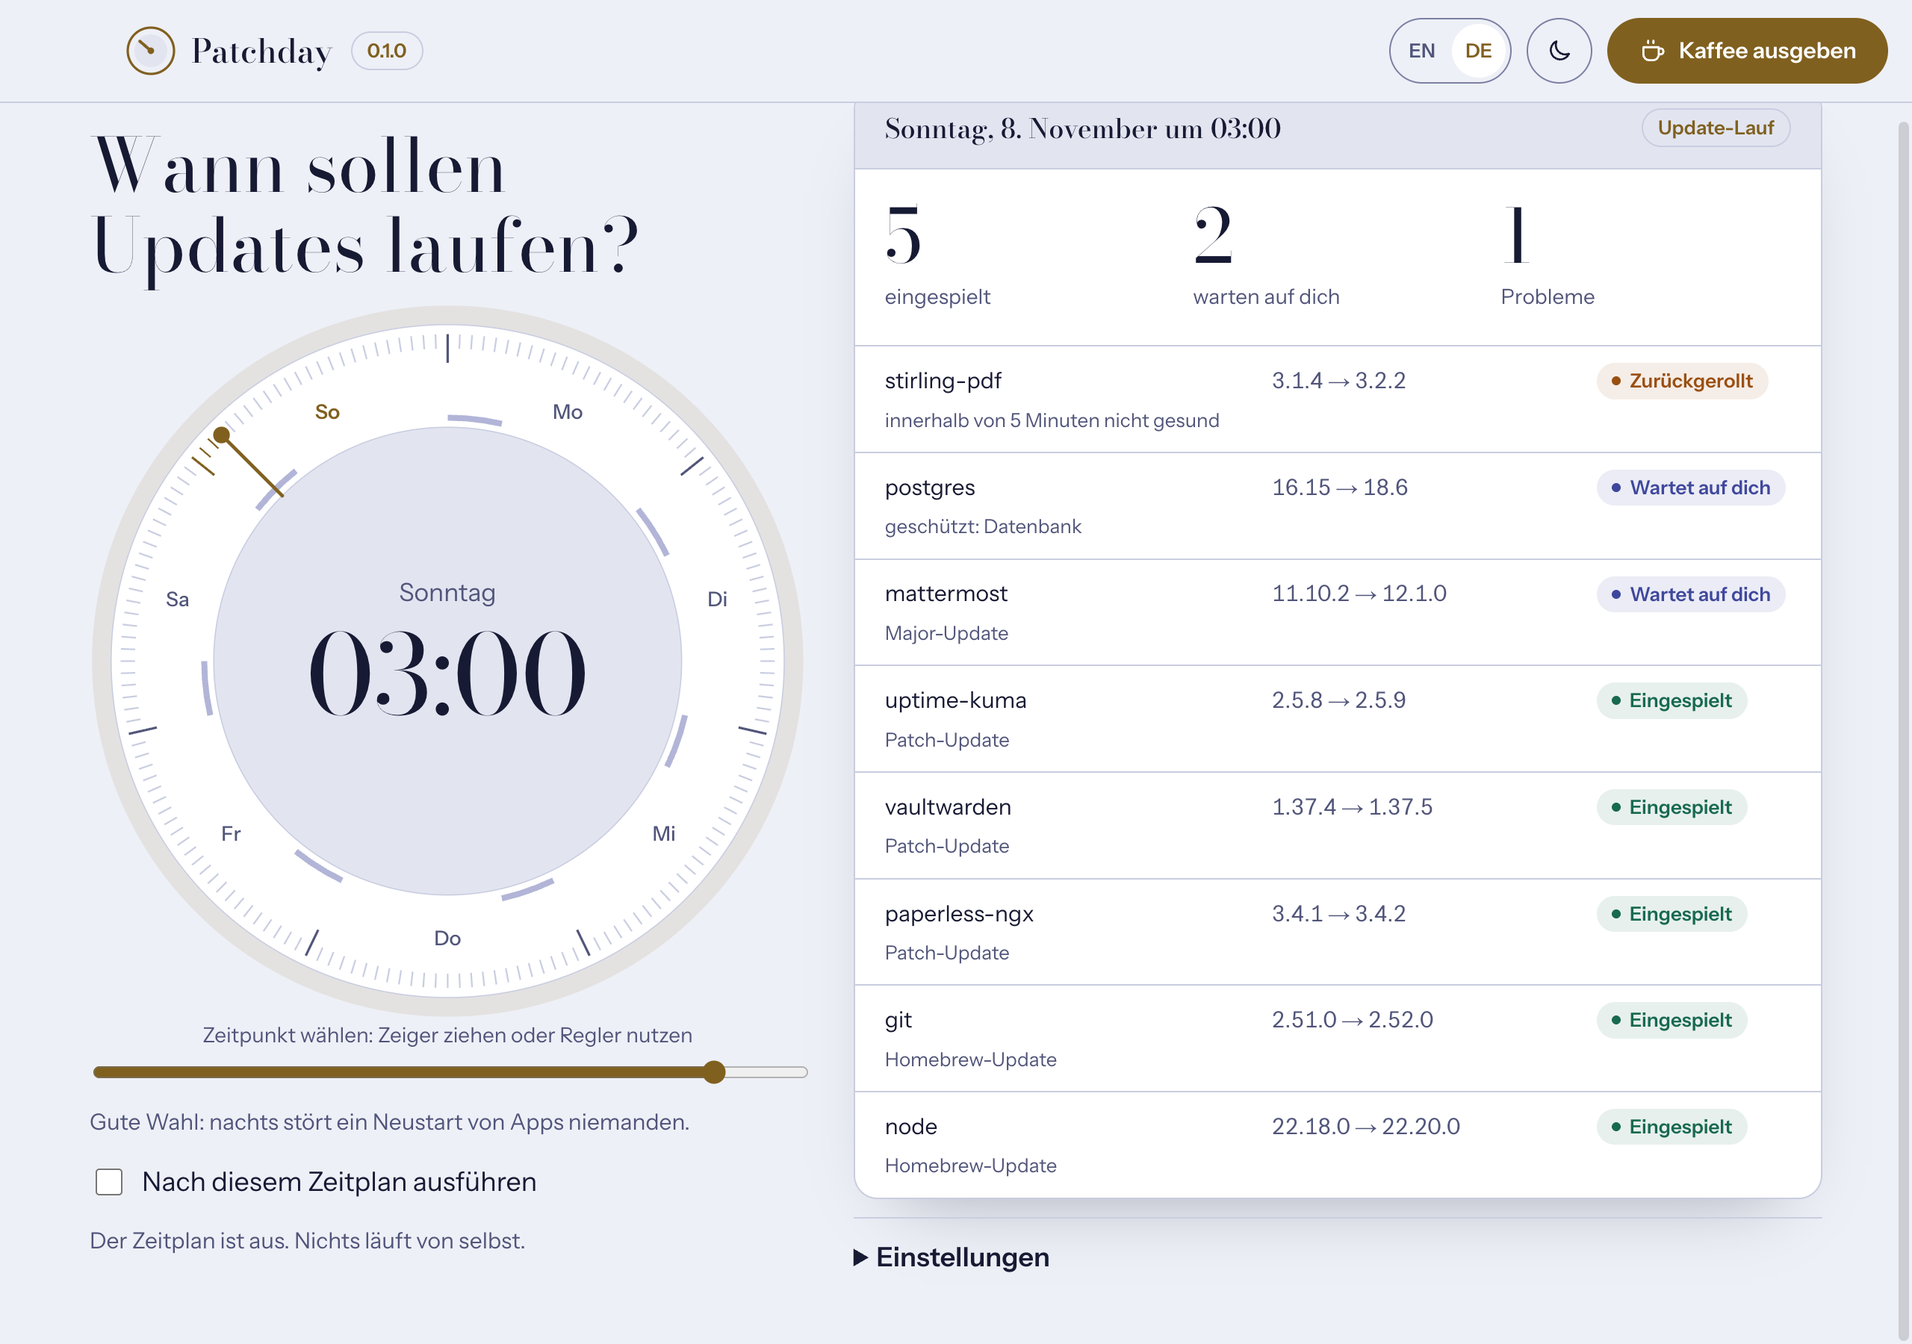
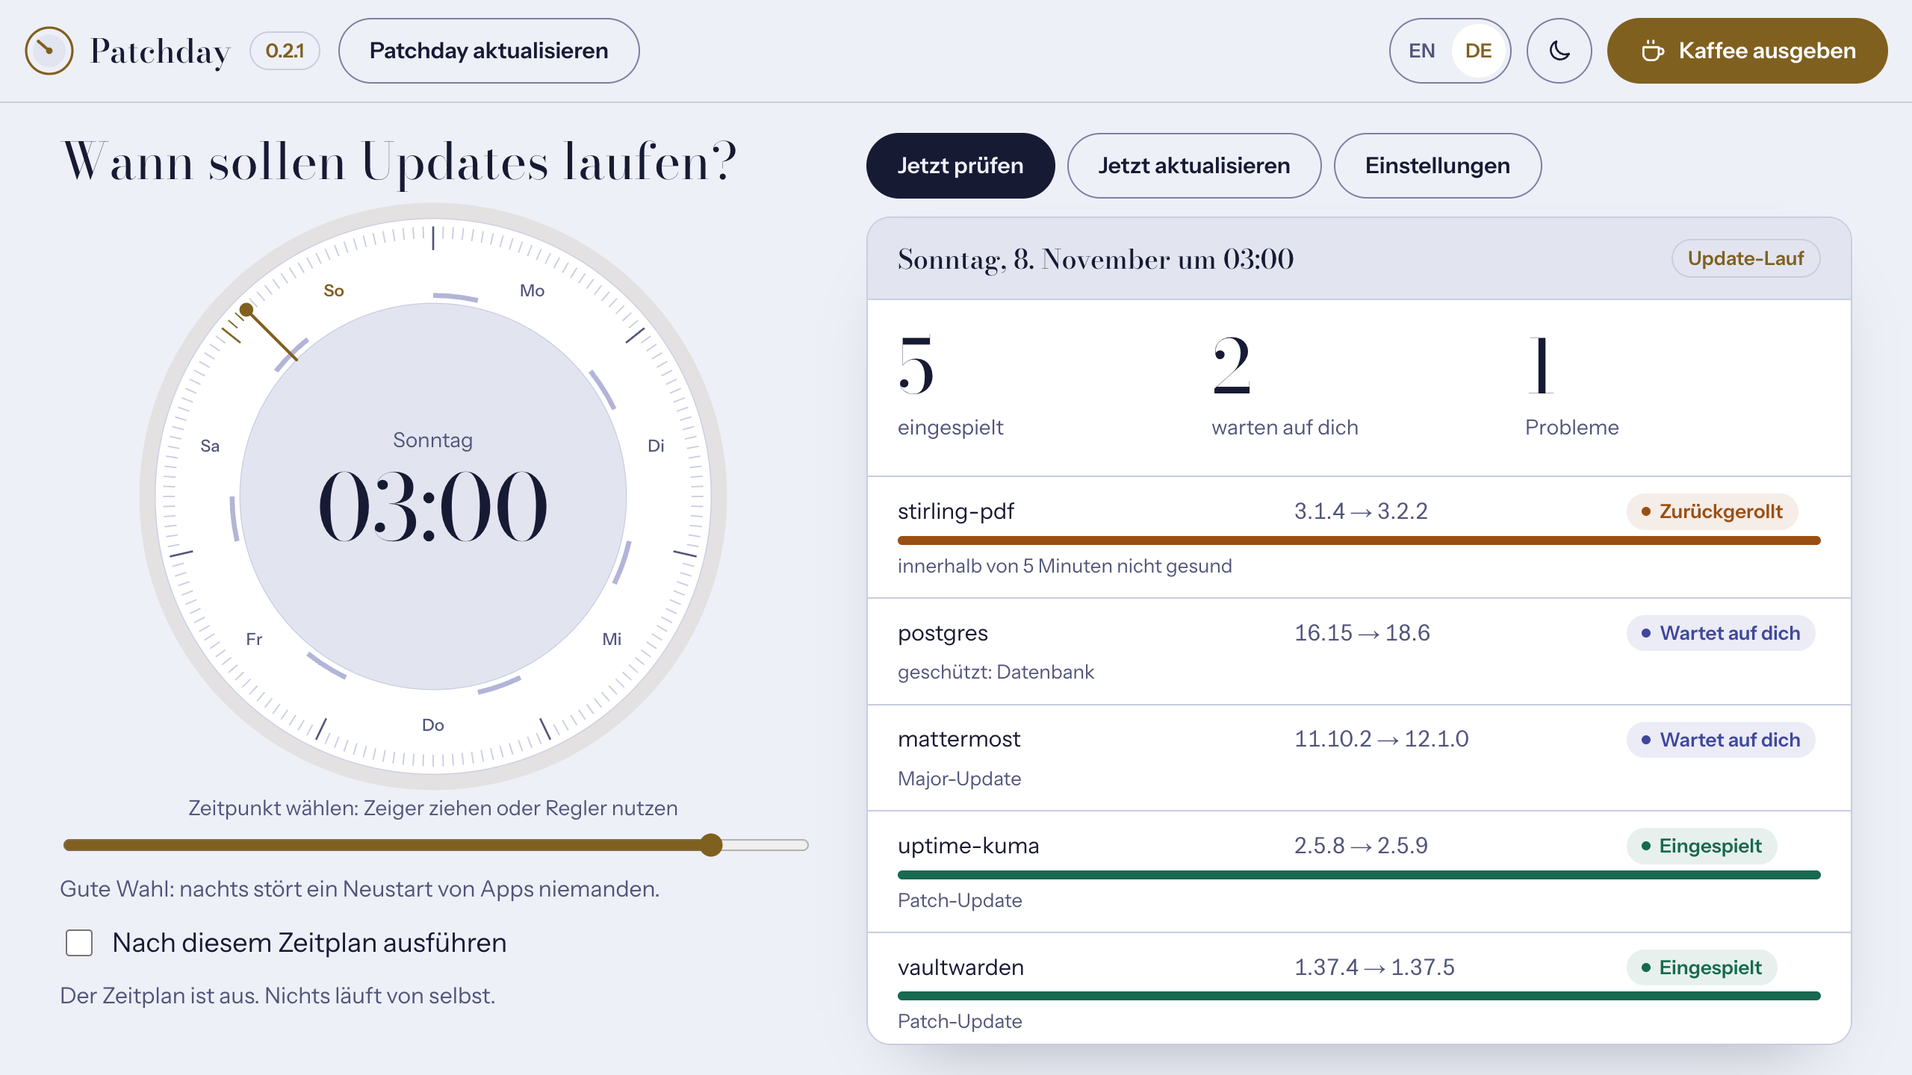
feat: add permanent update button and fixed 16:9 window scaling

diff --git a/src/renderer/app.css b/src/renderer/app.css
@@ -9,17 +9,20 @@
 body { font: 400 var(--step-0)/1.55 var(--font-text); }
 .pd-header { position: sticky; top: 0; z-index: 2; background: var(--night); -webkit-app-region: drag; }
 .pd-header button, .pd-header .pd-lang { -webkit-app-region: no-drag; }
-body.mac .pd-header { padding-left: 84px; }
 
-.app { display: grid; gap: var(--space-4); max-width: 1240px; margin-inline: auto; padding: var(--space-3) 16px var(--space-5); }
-.app > * { min-width: 0; }
-@media (min-width: 720px) { .app { padding-inline: var(--space-5); } }
-@media (min-width: 960px) { .app { grid-template-columns: minmax(0, .85fr) minmax(0, 1.15fr); align-items: start; } .schedule { position: sticky; top: 84px; } }
+/* The window keeps 16:9 and the whole page zooms with it, so this layout is always 1280 x 720. */
+html, body { height: 100%; overflow: hidden; }
+body { display: grid; grid-template-rows: auto minmax(0, 1fr); }
+.app { display: grid; grid-template-columns: 500px minmax(0, 1fr); gap: var(--space-5); min-height: 0; padding: var(--space-3) var(--space-5); }
+.app > * { min-width: 0; min-height: 0; }
 
-h1 { margin: 0; font: 400 var(--step-2)/1.08 var(--font-display); text-wrap: balance; }
+h1 { margin: 0; font: 400 34px/1.1 var(--font-display); white-space: nowrap; }
 h2 { margin: 0; font: 400 var(--step-1)/1.2 var(--font-display); }
 p { margin: 0; }
-.schedule, .work, .settings-body { display: grid; gap: var(--space-2); }
+.schedule, .settings-body { display: grid; gap: var(--space-1); align-content: start; }
+.work { display: flex; flex-direction: column; gap: var(--space-2); }
+.work .pd-window { flex: 1 1 auto; min-height: 0; overflow-y: auto; }
+.schedule .pd-dial { max-width: 396px; }
 .schedule input[type="range"] { width: 100%; accent-color: var(--brass); }
 .dial-label { display: grid; gap: 4px; color: var(--haze); font-size: 14px; text-align: center; }
 .hint { color: var(--haze); font-size: 15px; }
@@ -31,16 +34,11 @@ p { margin: 0; }
 .field { display: grid; gap: 4px; color: var(--haze); font-size: 14px; }
 .field input { min-height: 40px; padding: 0 12px; border: 1px solid var(--control-line); border-radius: var(--radius-field); background: var(--night-sunk); color: var(--moon); font: 15px var(--font-text); }
 
-.settings { border-top: 1px solid var(--line); padding-top: var(--space-2); }
-.settings summary { cursor: pointer; font-weight: 600; min-height: 32px; }
-.settings-body { padding-top: var(--space-2); }
 
 .pd-report-row > span:first-child { min-width: 0; overflow-wrap: anywhere; }
 .pd-reason { grid-column: 1 / -1; color: var(--haze); font-size: 13px; }
-.self-update { display: flex; flex-wrap: wrap; align-items: center; gap: var(--space-1) var(--space-2); padding: var(--space-2) 16px; background: var(--night-sunk); border-bottom: 1px solid var(--line); }
+.self-update { display: grid; gap: 6px; padding: var(--space-2) var(--space-3); border: 1px solid var(--line); border-radius: var(--radius-field); background: var(--night-sunk); }
 .self-update[hidden], .self-update .pd-progress[hidden] { display: none; }
-.self-update p { flex: 1 1 240px; min-width: 0; }
-.self-update .pd-progress { flex: 1 1 100%; }
 .overall { display: grid; gap: 6px; padding: var(--space-3); }
 .admin-row { display: flex; flex-wrap: wrap; align-items: center; gap: var(--space-1) var(--space-2); }
 .admin-row[hidden] { display: none; }
@@ -48,11 +46,7 @@ p { margin: 0; }
 .empty p { color: var(--haze); }
 .notes { padding: var(--space-2) var(--space-3); border-top: 1px solid var(--line); color: var(--haze); font-size: 14px; }
 
-dialog { max-width: 440px; padding: var(--space-3); border: 1px solid var(--line); border-radius: var(--radius-window); background: var(--night-raised); color: var(--moon); box-shadow: var(--shadow-window); }
+dialog { width: 560px; max-width: 560px; max-height: 660px; overflow-y: auto; padding: var(--space-3); border: 1px solid var(--line); border-radius: var(--radius-window); background: var(--night-raised); color: var(--moon); box-shadow: var(--shadow-window); }
 dialog > * + * { margin-top: var(--space-2); }
 dialog::backdrop { background: rgba(4, 5, 20, .6); }
 
-@media (max-width: 520px) {
-  .pd-header .coffee-text, .pd-header .pd-badge-plain { display: none; }
-  .pd-header .pd-btn-coffee { width: 44px; padding: 0; }
-}

diff --git a/src/renderer/i18n.ts b/src/renderer/i18n.ts
@@ -22,7 +22,7 @@ export const STRINGS = {
     adminTitle: 'Allow admin access once', adminText: 'Many Windows apps need admin rights to update. Allow it once now, and later updates run without a prompt for each app. Windows asks you to confirm.',
     adminAllow: 'Allow once', notNow: 'Not now', adminOn: 'Admin access is set up. Updates run without prompts.', adminOff: 'Without admin access, Windows may ask for every app.', adminDenied: 'Admin access was not granted.',
     overall: 'updates finished', queued: 'Waiting', phaseBackup: 'Backing up', phaseUpdate: 'Installing', phaseTest: 'Testing', phaseRollback: 'Rolling back', phaseRetry: 'Fixing and retrying',
-    selfAvailable: 'Patchday {version} is available.', selfInstall: 'Update Patchday', selfRunning: 'Updating Patchday. It restarts by itself.', selfFailed: 'Patchday could not update:',
+    selfAvailable: 'Patchday {version} is available.', selfInstall: 'Update Patchday', selfChecking: 'Looking for a new Patchday version…', selfCurrent: 'Patchday {version} is the latest version.', selfDev: 'Development builds do not update themselves.', done: 'Done', selfRunning: 'Updating Patchday. It restarts by itself.', selfFailed: 'Patchday could not update:',
     preview: 'Preview', run: 'Update run', failedRun: 'The run stopped:',
     days: ['Monday', 'Tuesday', 'Wednesday', 'Thursday', 'Friday', 'Saturday', 'Sunday'],
     short: ['Mon', 'Tue', 'Wed', 'Thu', 'Fri', 'Sat', 'Sun'], at: 'at', locale: 'en-US',
@@ -48,7 +48,7 @@ export const STRINGS = {
     adminTitle: 'Admin-Zugriff einmal erlauben', adminText: 'Viele Windows-Apps brauchen Admin-Rechte für Updates. Erlaube das jetzt einmal, dann laufen spätere Updates ohne Nachfrage pro App. Windows bittet dich um Bestätigung.',
     adminAllow: 'Einmal erlauben', notNow: 'Nicht jetzt', adminOn: 'Admin-Zugriff ist eingerichtet. Updates laufen ohne Nachfrage.', adminOff: 'Ohne Admin-Zugriff fragt Windows eventuell bei jeder App.', adminDenied: 'Admin-Zugriff wurde nicht erteilt.',
     overall: 'Updates fertig', queued: 'Wartet', phaseBackup: 'Sichert', phaseUpdate: 'Installiert', phaseTest: 'Testet', phaseRollback: 'Rollt zurück', phaseRetry: 'Behebt und versucht erneut',
-    selfAvailable: 'Patchday {version} ist verfügbar.', selfInstall: 'Patchday aktualisieren', selfRunning: 'Patchday wird aktualisiert und startet von selbst neu.', selfFailed: 'Patchday konnte nicht aktualisiert werden:',
+    selfAvailable: 'Patchday {version} ist verfügbar.', selfInstall: 'Patchday aktualisieren', selfChecking: 'Suche nach neuer Patchday-Version…', selfCurrent: 'Patchday {version} ist die neueste Version.', selfDev: 'Entwicklungsversionen aktualisieren sich nicht selbst.', done: 'Fertig', selfRunning: 'Patchday wird aktualisiert und startet von selbst neu.', selfFailed: 'Patchday konnte nicht aktualisiert werden:',
     preview: 'Vorschau', run: 'Update-Lauf', failedRun: 'Der Lauf wurde abgebrochen:',
     days: ['Montag', 'Dienstag', 'Mittwoch', 'Donnerstag', 'Freitag', 'Samstag', 'Sonntag'],
     short: ['Mo', 'Di', 'Mi', 'Do', 'Fr', 'Sa', 'So'], at: 'um', locale: 'de-DE',

diff --git a/src/renderer/app.ts b/src/renderer/app.ts
@@ -11,6 +11,7 @@ interface Api {
   coffee(): Promise<void>;
   setupAdmin(): Promise<boolean>;
   checkSelf(): Promise<string | null>;
+  manualCheckSelf(): Promise<string | null>;
   installSelf(): Promise<void>;
   onSelfProgress(listener: (percent: number) => void): void;
   onSelfAvailable(listener: (version: string) => void): void;
@@ -187,8 +188,9 @@ function renderText(): void {
   $('token-state').textContent = hasToken ? t().tokenSaved : t().tokenNone;
   $('admin-state').textContent = adminMessage || (adminReady ? t().adminOn : t().adminOff);
   $('admin-setup').hidden = adminReady;
-  $('self-update').hidden = !selfVersion;
+  $('self-update').hidden = !selfVersion && !selfMessage;
   $('self-text').textContent = selfMessage || (t().selfAvailable as string).replace('{version}', selfVersion ?? '');
+  $('self-update-button').className = `pd-btn ${selfVersion ? 'pd-btn-main' : 'pd-btn-line'}`;
 }
 
 function renderAll(): void {
@@ -231,7 +233,6 @@ async function start(): Promise<void> {
   hasToken = state.hasToken;
   adminReady = state.adminReady;
   report = state.reports[0] ?? null;
-  if (state.platform === 'darwin') document.body.classList.add('mac');
   $('version').textContent = state.version;
   $<HTMLInputElement>('enabled').checked = settings.scheduleEnabled;
   $<HTMLInputElement>('apply').checked = settings.applyUpdates;
@@ -263,6 +264,9 @@ async function start(): Promise<void> {
     hasToken = true;
     renderText();
   });
+  const settingsDialog = $<HTMLDialogElement>('settings');
+  $('settings-open').addEventListener('click', () => settingsDialog.showModal());
+  $('settings-close').addEventListener('click', () => settingsDialog.close());
   $('check').addEventListener('click', () => void perform(api.check, t().checking));
   const dialog = $<HTMLDialogElement>('confirm');
   $('update').addEventListener('click', () => dialog.showModal());
@@ -288,12 +292,23 @@ async function start(): Promise<void> {
     track.setAttribute('aria-valuenow', String(percent));
     (track.firstElementChild as HTMLElement).style.width = `${percent}%`;
   });
-  $('self-install').addEventListener('click', async () => {
-    const button = $<HTMLButtonElement>('self-install');
+  $('self-update-button').addEventListener('click', async () => {
+    const button = $<HTMLButtonElement>('self-update-button');
     button.disabled = true;
-    selfMessage = t().selfRunning;
+    selfMessage = t().selfChecking;
     renderText();
     try {
+      const version = await api.manualCheckSelf();
+      if (!version) {
+        selfVersion = null;
+        selfMessage = state.packaged ? (t().selfCurrent as string).replace('{version}', state.version) : t().selfDev;
+        button.disabled = false;
+        renderText();
+        return;
+      }
+      selfVersion = version;
+      selfMessage = t().selfRunning;
+      renderText();
       await api.installSelf();
     } catch (error) {
       button.disabled = false;

diff --git a/src/main/main.ts b/src/main/main.ts
@@ -1,4 +1,4 @@
-import { app, BrowserWindow, ipcMain, Notification, safeStorage, shell } from 'electron';
+import { app, BrowserWindow, ipcMain, Notification, safeStorage, screen, shell } from 'electron';
 import { mkdir, readdir, readFile, rm, writeFile } from 'node:fs/promises';
 import { dirname, join } from 'node:path';
 import { createPortainerClient } from '../engine/portainer.ts';
@@ -76,16 +76,36 @@ function program(): string[] {
   return app.isPackaged ? [process.execPath, SCHEDULED_FLAG] : [process.execPath, app.getAppPath(), SCHEDULED_FLAG];
 }
 
+// The page is laid out once for this size. The window keeps its shape and the page zooms with it.
+const DESIGN_WIDTH = 1280;
+const DESIGN_HEIGHT = 720;
+const MIN_WIDTH = 960;
+const MAX_WIDTH = 1920;
+
 function createWindow(): void {
+  const area = screen.getPrimaryDisplay().workAreaSize;
+  const room = Math.floor(Math.min(area.width, ((area.height - 40) * DESIGN_WIDTH) / DESIGN_HEIGHT));
+  const width = Math.max(MIN_WIDTH, Math.min(DESIGN_WIDTH, room));
   const window = new BrowserWindow({
-    width: 1180,
-    height: 820,
-    minWidth: 420,
-    minHeight: 560,
+    width,
+    height: Math.round((width * DESIGN_HEIGHT) / DESIGN_WIDTH),
+    useContentSize: true,
+    maximizable: false,
+    fullscreenable: false,
     backgroundColor: '#12142b',
     title: 'Patchday',
     webPreferences: { preload: join(__dirname, 'preload.cjs'), contextIsolation: true, sandbox: true, nodeIntegration: false },
   });
+  window.setAspectRatio(DESIGN_WIDTH / DESIGN_HEIGHT);
+  window.setContentSize(width, Math.round((width * DESIGN_HEIGHT) / DESIGN_WIDTH));
+  const frameWidth = window.getSize()[0] - window.getContentSize()[0];
+  const frameHeight = window.getSize()[1] - window.getContentSize()[1];
+  const heightFor = (contentWidth: number) => Math.round((contentWidth * DESIGN_HEIGHT) / DESIGN_WIDTH) + frameHeight;
+  window.setMinimumSize(MIN_WIDTH + frameWidth, heightFor(MIN_WIDTH));
+  window.setMaximumSize(MAX_WIDTH + frameWidth, heightFor(MAX_WIDTH));
+  const fit = () => window.webContents.setZoomFactor(window.getContentSize()[0] / DESIGN_WIDTH);
+  window.on('resize', fit);
+  window.webContents.on('did-finish-load', fit);
   window.loadFile(join(__dirname, 'renderer', 'index.html'));
   // Nothing inside the app may open other pages.
   window.webContents.setWindowOpenHandler(() => ({ action: 'deny' }));
@@ -140,6 +160,10 @@ function registerIpc(): void {
   ipcMain.handle('self-check', async () => {
     if (!app.isPackaged) return null;
     return (await findUpdate().catch(() => null))?.version ?? null;
+  });
+  ipcMain.handle('self-check-manual', async () => {
+    if (!app.isPackaged) return null;
+    return (await findUpdate())?.version ?? null;
   });
   ipcMain.handle('self-install', async (event) => {
     const onPercent = (percent: number) => event.sender.send('self-progress', percent);

diff --git a/src/renderer/index.html b/src/renderer/index.html
@@ -14,6 +14,7 @@
     <b>Patchday</b>
   </div>
   <span class="pd-badge pd-badge-plain" id="version"></span>
+  <button class="pd-btn pd-btn-line" id="self-update-button" type="button" data-i18n="selfInstall"></button>
   <div class="pd-header-tools">
     <div class="pd-lang" role="group" aria-label="Language / Sprache">
       <button type="button" data-lang="en" aria-pressed="true">EN</button>
@@ -29,12 +30,6 @@
   </div>
 </header>
 
-<div class="self-update" id="self-update" hidden>
-  <p id="self-text"></p>
-  <button class="pd-btn pd-btn-main" id="self-install" type="button" data-i18n="selfInstall"></button>
-  <div class="pd-progress" id="self-bar" role="progressbar" hidden><span></span></div>
-</div>
-
 <main class="app">
   <section class="schedule" aria-labelledby="schedule-title">
     <h1 id="schedule-title" data-i18n="scheduleTitle"></h1>
@@ -45,15 +40,23 @@
   </section>
 
   <section class="work">
+    <div class="self-update" id="self-update" role="status" hidden>
+      <p id="self-text"></p>
+      <div class="pd-progress" id="self-bar" role="progressbar" hidden><span></span></div>
+    </div>
     <div class="actions">
       <button class="pd-btn pd-btn-main" id="check" type="button" data-i18n="check"></button>
       <button class="pd-btn pd-btn-line" id="update" type="button" data-i18n="update"></button>
+      <button class="pd-btn pd-btn-line" id="settings-open" type="button" data-i18n="settings"></button>
       <span class="progress" id="progress" role="status"></span>
     </div>
     <div class="pd-window" id="report"></div>
-    <details class="settings">
-      <summary data-i18n="settings"></summary>
-      <div class="settings-body">
+  </section>
+</main>
+
+<dialog id="settings">
+  <h2 data-i18n="settings"></h2>
+  <div class="settings-body">
         <label class="toggle"><input type="checkbox" id="apply"><span data-i18n="applyLabel"></span></label>
         <p class="hint" data-i18n="applyHint"></p>
         <div class="admin-row" id="admin-row" hidden><p class="hint" id="admin-state"></p><button class="pd-btn pd-btn-line" id="admin-setup" type="button" data-i18n="adminAllow"></button></div>
@@ -64,9 +67,8 @@
         <p class="hint" id="token-state"></p>
         <div><button class="pd-btn pd-btn-line" id="save-token" type="button" data-i18n="saveToken"></button></div>
       </div>
-    </details>
-  </section>
-</main>
+  <div class="actions"><button class="pd-btn pd-btn-main" id="settings-close" type="button" data-i18n="done"></button></div>
+</dialog>
 
 <dialog id="confirm">
   <h2 data-i18n="confirmTitle"></h2>

diff --git a/src/main/preload.ts b/src/main/preload.ts
@@ -8,6 +8,7 @@ contextBridge.exposeInMainWorld('patchday', {
   saveToken: (token: string) => ipcRenderer.invoke('token', token),
   coffee: () => ipcRenderer.invoke('coffee'),
   checkSelf: () => ipcRenderer.invoke('self-check'),
+  manualCheckSelf: () => ipcRenderer.invoke('self-check-manual'),
   installSelf: () => ipcRenderer.invoke('self-install'),
   onSelfProgress: (listener: (percent: number) => void) => ipcRenderer.on('self-progress', (_event, percent) => listener(percent)),
   onSelfAvailable: (listener: (version: string) => void) => ipcRenderer.on('self-available', (_event, version) => listener(version)),

diff --git a/README.md b/README.md
@@ -10,7 +10,7 @@
 
 <p align="center">
   <img alt="Platforms: macOS and Windows" src="https://img.shields.io/badge/platforms-macOS%20%7C%20Windows-1a1d3b">
-  <img alt="Version 0.2.0" src="https://img.shields.io/badge/version-0.2.0-dcbb7b">
+  <img alt="Version 0.2.1" src="https://img.shields.io/badge/version-0.2.1-dcbb7b">
   <img alt="License: MIT" src="https://img.shields.io/badge/license-MIT-1a1d3b">
   <a href="https://ko-fi.com/kvnbe"><img alt="Buy me a coffee on Ko-fi" src="https://img.shields.io/badge/Ko--fi-buy%20me%20a%20coffee-dcbb7b"></a>
 </p>
@@ -51,7 +51,7 @@
 - **Recover from bad updates.** A stack that does not come back healthy returns to its old version.
 - **Watch it happen.** Every update has its own progress bar, and failures show a short reason.
 - **Fix common failures.** Busy apps, bad downloads and network errors are retried once automatically.
-- **Update itself.** Patchday shows when a new version is out and installs it with one click.
+- **Update itself.** The **Update Patchday** button looks for a new version and installs it. Patchday also tells you when one is out.
 - **Allow admin rights once.** On Windows, one confirmation replaces a prompt for every app.
 - **English and German.** Dark by default, with a light theme.
 
@@ -66,14 +66,14 @@ Download the latest version from the [Releases page](https://github.com/kvn-be/p
 
 ### Windows
 
-1. Download and run `Patchday-Setup-0.2.0.exe`.
+1. Download and run `Patchday-Setup-0.2.1.exe`.
 2. If Windows shows "Windows protected your PC", select **More info**, then **Run anyway**. The warning appears because the app is not signed yet.
 3. Follow the installer and start Patchday.
 4. On first start, select **Allow once** and confirm the Windows prompt. Patchday creates a task that installs updates without asking again. You can do this later in **Settings**.
 
 ### macOS
 
-1. Download and open `Patchday-0.2.0-arm64.dmg` for Apple silicon, or `Patchday-0.2.0-x64.dmg` for Intel Macs.
+1. Download and open `Patchday-0.2.1-arm64.dmg` for Apple silicon, or `Patchday-0.2.1-x64.dmg` for Intel Macs.
 2. Drag Patchday to **Applications**.
 3. Start it. macOS blocks unsigned apps, so go to **System Settings > Privacy & Security** and select **Open Anyway**.
 
@@ -87,7 +87,7 @@ A Homebrew tap is planned but not available yet.
 2. Read the list. **Planned** would run automatically, **Waiting for you** would not.
 3. Pick a time on the dial. The arcs mark the quiet hours from 00:00 to 06:00.
 4. Turn on **Run on this schedule**. Scheduled runs now report what would change.
-5. When you trust the results, open **Settings** and turn on **Install updates on schedule**.
+5. When you trust the results, select **Settings** and turn on **Install updates on schedule**.
 
 To update right away, select **Update now** and confirm. Containers and apps may restart.
 

diff --git a/design/system/project/README.md b/design/system/project/README.md
@@ -46,7 +46,8 @@ Use 24-hour time in both languages. Write versions as `3.4.0 → 3.4.1`. Keep pr
 - Size type with `step-0` to `step-3` and sections with `space-section`. Fixed pixel sizes in the type styles are the upper limits.
 - Keep content in a 1240px column with a 16px gutter, 40px (`space-5`) from 720px up.
 - Align left. Only the week dial is centred.
-- Stack columns to one below 960px. The app window must work from 400px wide.
+- The app window keeps 16:9, from 960 x 540 to 1920 x 1080. Lay it out once for 1280 x 720; the page zooms with the window. Only the report scrolls.
+- The website stacks columns to one below 960px and must work from 400px wide.
 
 ## Shape and depth
 
